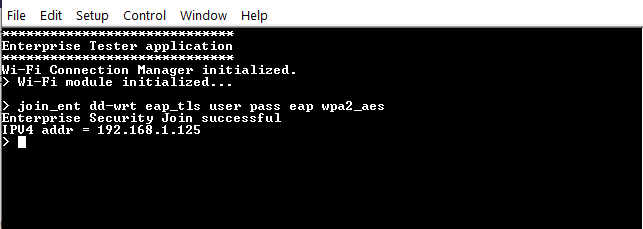
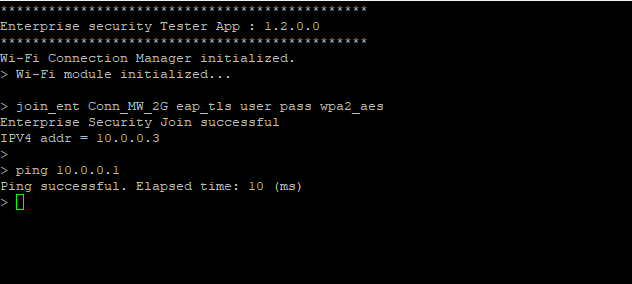
Upload mtb-tester-threadx-enterprise-security 1.2.0.53 [2630]

Changed region(s): [[0.0, 0.0, 1.0, 1.0]]

diff --git a/ent_sec_utility/ent_sec_utility.c b/ent_sec_utility/ent_sec_utility.c
@@ -62,7 +62,7 @@ static int disconnect_server    ( int argc, char *argv[], tlv_buffer_t** data );
  *                      Macros
  ******************************************************/
 #define WIFI_ENTERPRISE_SECURITY_COMMANDS \
-        { (char*) "join_ent", join_ent, 0, NULL, NULL, (char*) "<ssid> <eap_tls|peap> [username] [password] [eap] <wpa_aes|wpa_mixed|wpa2_aes|wpa2_mixed|wpa3_aes_ccmp|wpa3_aes_gcm|wpa3_192bit>", (char*) "Join an AP using an enterprise EAP method. DHCP assumed."}, \
+        { (char*) "join_ent", join_ent, 0, NULL, NULL, (char*) "<ssid> <eap_tls|peap|eap_ttls> [username] [password] <wpa_aes|wpa_mixed|wpa2_aes|wpa2_mixed|wpa3_aes_ccmp|wpa3_aes_gcm|wpa3_192bit>", (char*) "Join an AP using an enterprise EAP method. DHCP assumed."}, \
         { (char*) "leave_ent", leave_ent, 0, NULL, NULL, (char*) "", (char*) "Leaves an enterprise AP and stops processing enterprise security events."}, \
         { (char*) "start_echo_server", start_echo_server, 0, NULL, NULL, (char*) "<tcp_port_number>", (char*) "Start TCP Echo server on the port number."}, \
         { (char*) "stop_echo_server", stop_echo_server, 0, NULL, NULL, (char*) "", (char*) "Stop TCP Echo server."}, \
@@ -86,6 +86,7 @@ static const cy_command_console_cmd_t ent_sec_command_table[] =
 
 static cy_enterprise_security_parameters_t ent_parameters;
 static cy_enterprise_security_t handle;
+
 
 /*******************************************************************************
  * Function Name: str_to_enterprise_security_type
@@ -113,9 +114,9 @@ static cy_enterprise_security_eap_type_t str_to_enterprise_security_type( char* 
     {
         ret = CY_ENTERPRISE_SECURITY_EAP_TYPE_PEAP;
     }
-    else if( strcmp( arg, "mschapv2" ) == 0 )
+    else if( strcmp( arg, "eap_ttls" ) == 0 )
     {
-        ret = CY_ENTERPRISE_SECURITY_EAP_TYPE_MSCHAPV2;
+        return CY_ENTERPRISE_SECURITY_EAP_TYPE_TTLS;
     }
     else
     {
@@ -285,7 +286,8 @@ static int join_ent( int argc, char *argv[], tlv_buffer_t** data )
         return ERR_BAD_ARG;
     }
 
-    if( ( eap_type == CY_ENTERPRISE_SECURITY_EAP_TYPE_PEAP ) && ( argc < 6 ) )
+    if( ( eap_type == CY_ENTERPRISE_SECURITY_EAP_TYPE_PEAP  || eap_type == CY_ENTERPRISE_SECURITY_EAP_TYPE_TTLS )
+            && ( argc < 5 ) )
     {
         return ERR_INSUFFICENT_ARGS;
     }
@@ -299,33 +301,42 @@ static int join_ent( int argc, char *argv[], tlv_buffer_t** data )
 
     memset(&ent_parameters, 0, sizeof(cy_enterprise_security_parameters_t));
 
-    ent_parameters.is_client_cert_required = 0;
+    username = argv[ 3 ];
 
     if( ( eap_type == CY_ENTERPRISE_SECURITY_EAP_TYPE_PEAP ) ||
             ( eap_type == CY_ENTERPRISE_SECURITY_EAP_TYPE_TTLS ) ||
             ( eap_type == CY_ENTERPRISE_SECURITY_EAP_TYPE_TLS ) )
     {
-        username = argv[ 3 ];
-
         /* Copy phase2 identity */
         strncpy( ent_parameters.phase2.inner_identity, username, CY_ENTERPRISE_SECURITY_MAX_IDENTITY_LENGTH );
         ent_parameters.phase2.inner_identity[ CY_ENTERPRISE_SECURITY_MAX_IDENTITY_LENGTH - 1 ] = '\0';
 
-        if( eap_type == CY_ENTERPRISE_SECURITY_EAP_TYPE_TLS )
-        {
-            ent_parameters.is_client_cert_required = 1;
-        }
-        else if( eap_type == CY_ENTERPRISE_SECURITY_EAP_TYPE_PEAP )
+        if( ( eap_type == CY_ENTERPRISE_SECURITY_EAP_TYPE_PEAP )  || ( eap_type == CY_ENTERPRISE_SECURITY_EAP_TYPE_TTLS ) )
         {
             password = argv[ 4 ];
-            ent_parameters.phase2.inner_eap_type = CY_ENTERPRISE_SECURITY_EAP_TYPE_MSCHAPV2;
-            ent_parameters.phase2.tunnel_auth_type = CY_ENTERPRISE_SECURITY_TUNNEL_TYPE_MSCHAPV2;
             strncpy( ent_parameters.phase2.inner_password, password, CY_ENTERPRISE_SECURITY_MAX_PASSWORD_LENGTH );
             ent_parameters.phase2.inner_password[ CY_ENTERPRISE_SECURITY_MAX_PASSWORD_LENGTH - 1 ] = '\0';
+
+            ent_parameters.phase2.inner_eap_type   = CY_ENTERPRISE_SECURITY_EAP_TYPE_MSCHAPV2;
+
+            if ( eap_type == CY_ENTERPRISE_SECURITY_EAP_TYPE_PEAP )
+            {
+                /* PEAP Tunnel type MSCHAPV2 */
+                ent_parameters.phase2.tunnel_auth_type = CY_ENTERPRISE_SECURITY_TUNNEL_TYPE_MSCHAPV2;
+            }
+            else
+            {
+                /* TTLS Tunnel type EAP */
+                ent_parameters.phase2.tunnel_auth_type = CY_ENTERPRISE_SECURITY_TUNNEL_TYPE_EAP;
+            }
         }
     }
 
-    if( ent_parameters.is_client_cert_required == 1 )
+    /* Client certificate and key is mandatory only for EAP-TLS. For PEAP and EAP-TTLS it is optional.
+     * Hence passing NULL. However if it is required, for example if the radius server requires the client
+     * authentication for PEAP/TTLS, pass certificate and key to enterprise library.
+     */
+    if( CY_ENTERPRISE_SECURITY_EAP_TYPE_TLS == eap_type )
     {
         if( CY_ENTERPRISE_SECURITY_AUTH_TYPE_WPA3_192BIT == auth_type )
         {

diff --git a/main.c b/main.c
@@ -47,7 +47,7 @@
 #include "ent_sec_utility.h"
 #include <inttypes.h>
 
-#define THREAD_STACK 4*1024
+#define THREAD_STACK (4*1024)
 static cy_thread_t nxs_thread;
 static uint64_t nxs_stack[(THREAD_STACK)/sizeof(uint64_t)];
 
@@ -168,9 +168,9 @@ int main(void)
 
     /* \x1b[2J\x1b[;H - ANSI ESC sequence to clear screen. */
     printf("\x1b[2J\x1b[;H");
-    printf("*****************************\r\n");
-    printf("Enterprise Tester application\r\n");
-    printf("*****************************\r\n");
+    printf("**********************************************\r\n");
+    printf("Enterprise security Tester App : %s\r\n", (ENT_TESTER_APP_VERSION));
+    printf("**********************************************\r\n");
 
     result = cy_rtos_thread_create(&nxs_thread,
                                    &console_task,

diff --git a/certificate.h b/certificate.h
@@ -36,7 +36,7 @@
 extern "C" {
 #endif
 
-// WPA3 192Bit
+/* WPA3 192Bit */
 #define WPA3_192BIT_ROOT_CERTIFICATE_STRING  \
 "-----BEGIN CERTIFICATE-----\r\n" \
 "-----END CERTIFICATE-----\r\n";

diff --git a/README.md b/README.md
@@ -13,6 +13,7 @@ See the command console library [Readme.md](https://github.com/Infineon/command-
 ## Supported EAP Security protocols
 * EAP TLS
 * PEAPv0 with MSCHAPv2
+* EAP-TTLS with EAP-MSCHAPv2
 
 ## Supported Enterprise Security Modes
 * WPA
@@ -187,11 +188,11 @@ For a list of supported IDEs and more details, see the "Exporting to IDEs" secti
     1. **join_ent** : This command will connect the device to enterprise Wi-Fi network.
 
     ```
-    join_ent <ssid> <eap_protocol> [username] [password] [eap] <wifi auth_type>
+    join_ent <ssid> <eap_protocol> [username] [password] <wifi auth_type>
     ```
     Example:
     ```
-    join_ent WIFI_SSID eap_tls user pass eap wpa2_aes
+    join_ent WIFI_SSID eap_tls user pass wpa2_aes
     ```
 
     **Enterprise Join Example**
@@ -204,8 +205,9 @@ For a list of supported IDEs and more details, see the "Exporting to IDEs" secti
     * `wpa3_192bit`:   WPA3-Enterprise 192-bit mode
 
     **Note2**: EAP security protocols :
-    * `eap_tls`: EAP TLS
-    * `peap`   : PEAPv0 with MSCHAPv2
+    * `eap_tls`  : EAP TLS
+    * `peap`     : PEAPv0 with MSCHAPv2
+    * `eap_ttls` : EAP-TTLS with EAP-MSCHAPv2
 
     2. **leave_ent** : Leave from the connected enterprise Wi-Fi network.
 
@@ -284,5 +286,6 @@ Document title: Enterprise Security Tester App
 
 | Version | Description of change |
 | ------- | --------------------- |
-| 1.1.0   | Added PEAP commands   |
+| 1.2.0   | Added EAP-TTLS command   |
+| 1.1.0   | Added PEAP command   |
 | 1.0.0   | Initial version with EAP TLS support. |
